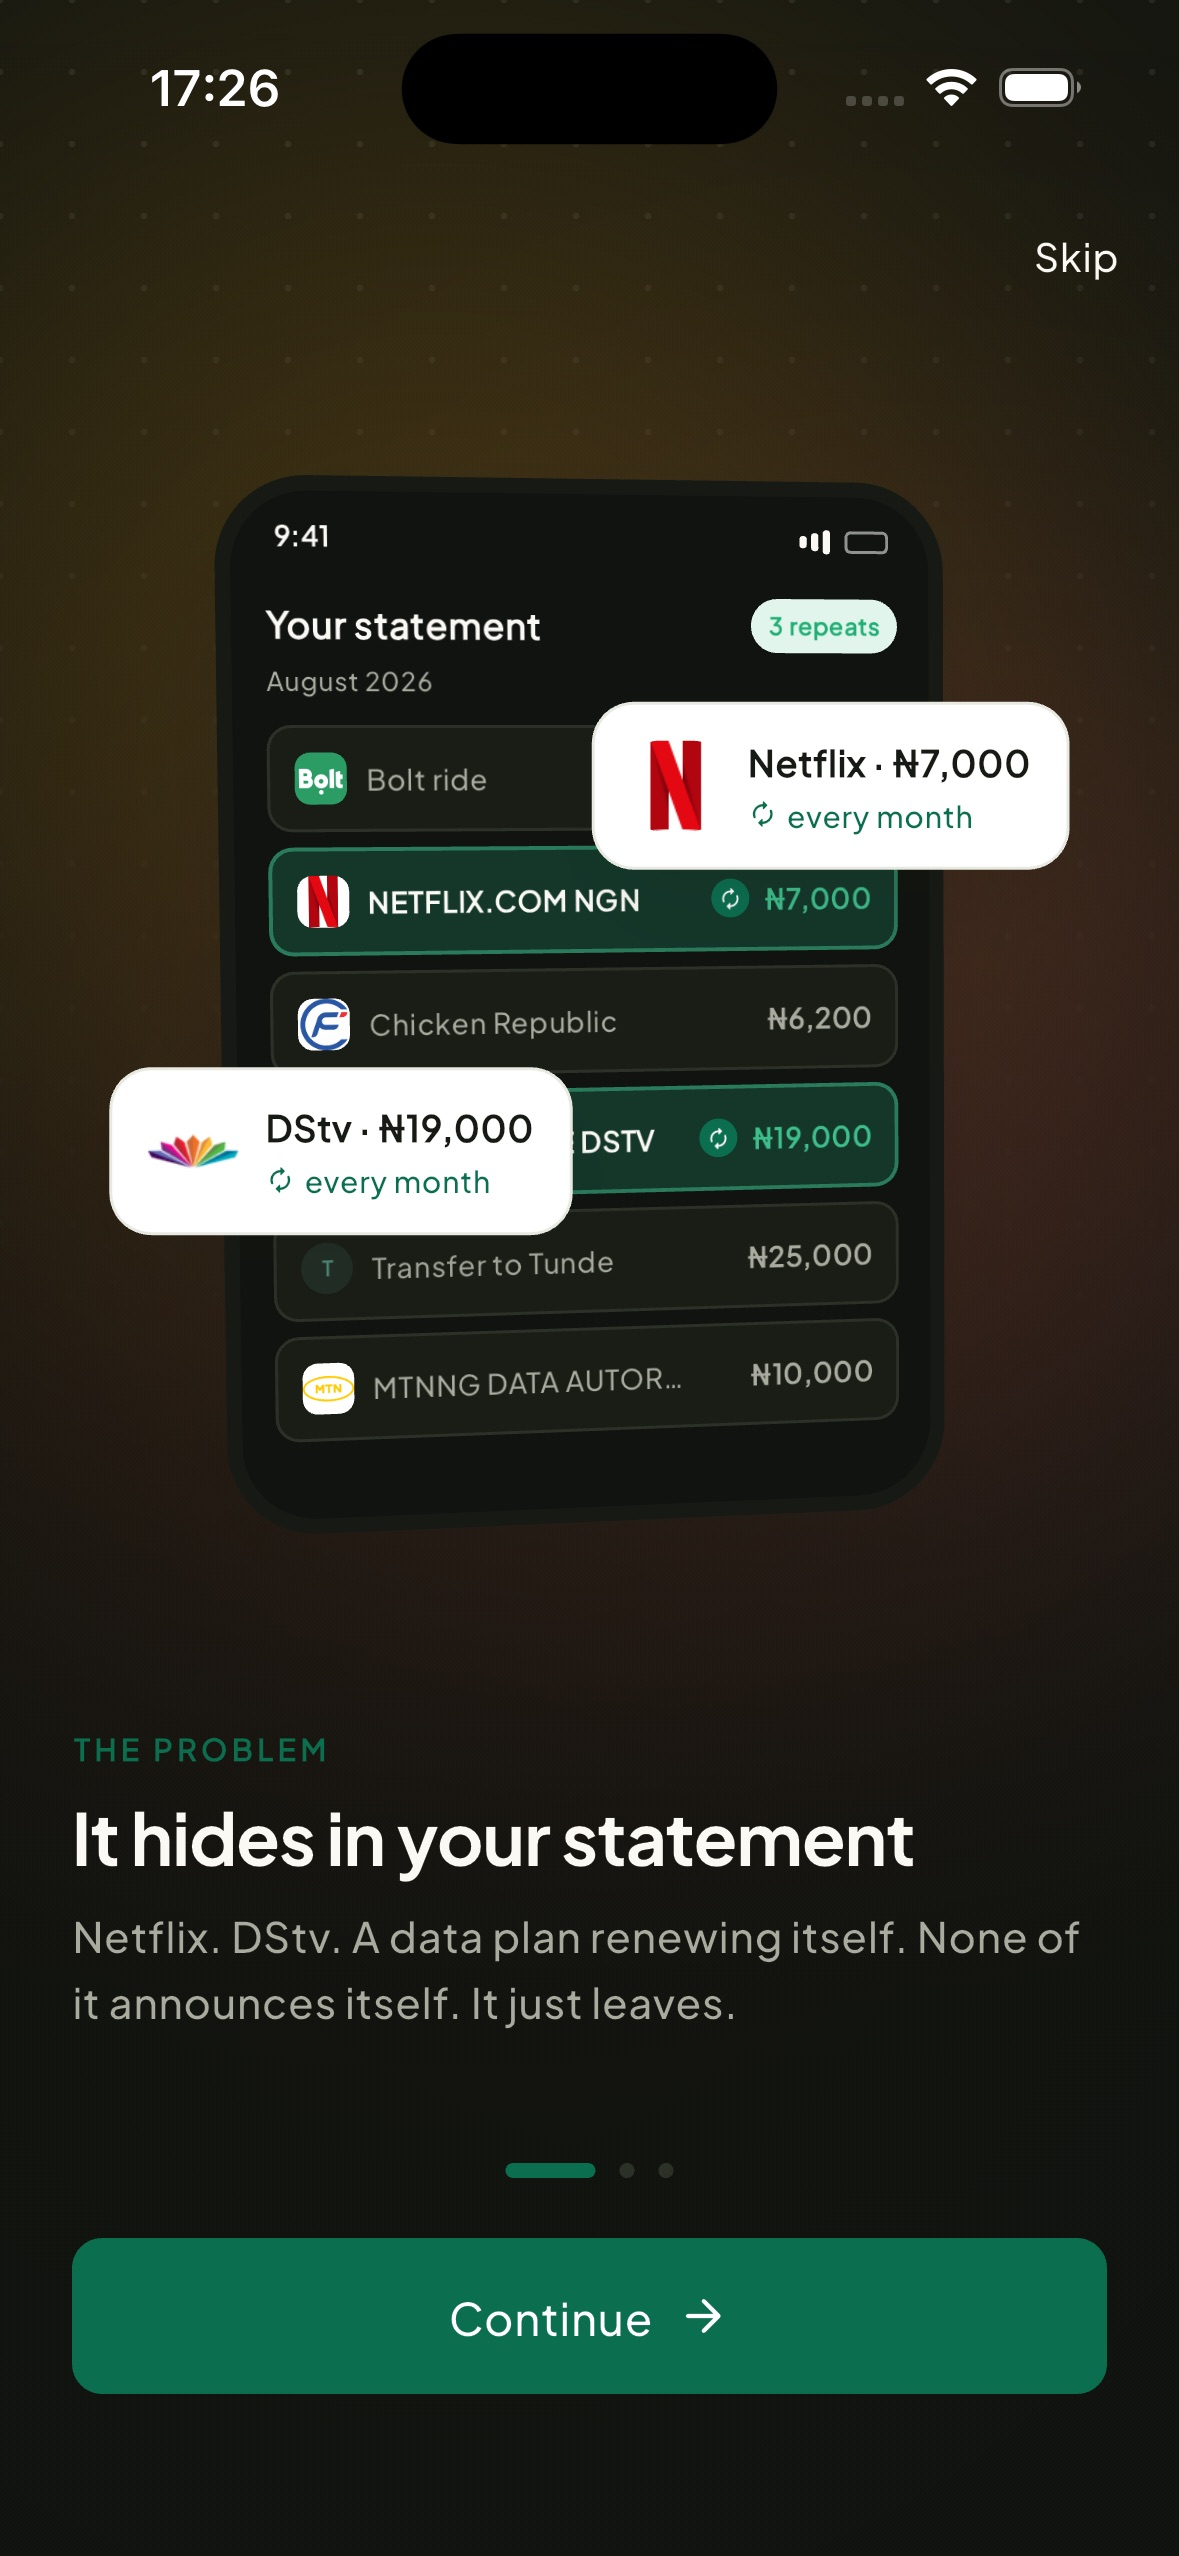
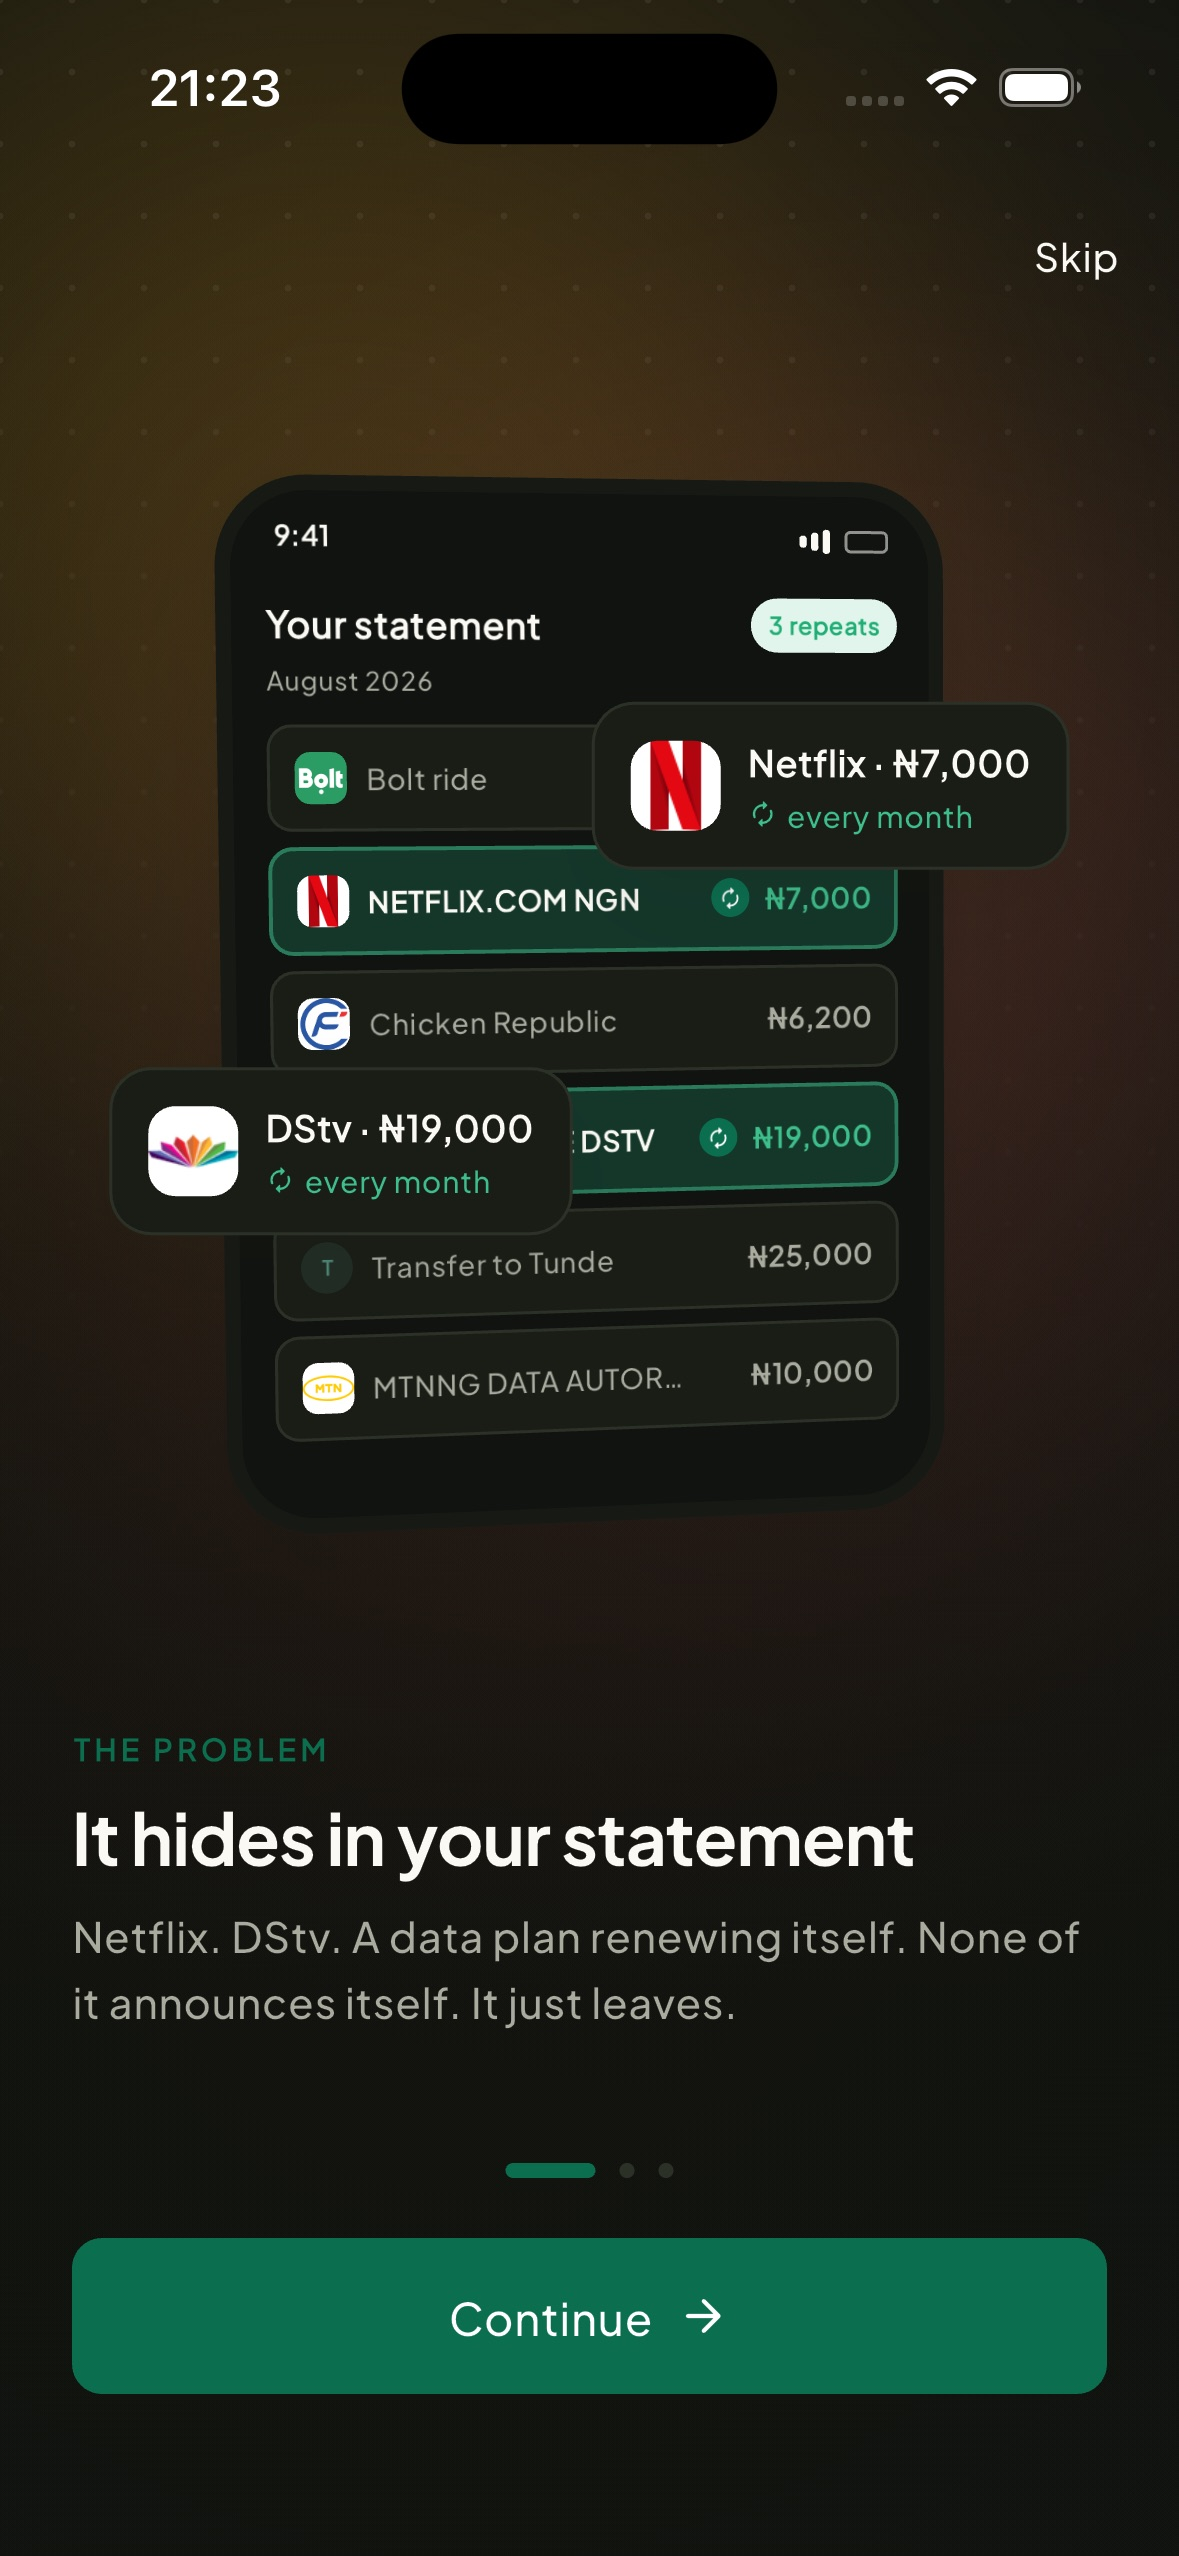
Strip the hero's ambient lighting, and darken the onboarding float cards
Partly reverses 1817172, which added the lighting this removes.

Four changes, three of them removals.

Removed the ambient treatment around the hero device: the upper-right green
wash, the blurred scaled copy of the screenshot sitting behind it, and the
highlight/shade overlay across its face. The shade half of that last one was a
26%-black gradient over the device's lower-left, which is what read as a
darkened patch. Together they were three separate attempts to make a flat
screenshot look lit, and stacking them made the hero muddier than the plain
image. The device now sits on the page unadorned. The --shot-src token went
with them; it existed only to feed the blurred copy.

Made the floating callout cards follow the theme. _FloatCard hardcoded
AppColors.white, so the Netflix, DStv and notification cards glowed white on
a dark onboarding page. Same drift as phone_frame's screen surface. Their copy
had to move with the fill: the labels were neutral900 and the "every month"
line was primary, both of which vanish on a dark card. Labels now use
ink(context), and the brand green uses primaryInk(context) rather than
primary, for the reason that token exists - primary is tuned for paper and
drops to about 2:1 on dark surfaces. Changing a fill without its contents is
exactly the bug this repeats.

Re-captured the three dark website assets from the rebuilt app so they carry
the fixed cards.

Moved the decode section's rule from above its column headers to below them,
[…]

diff --git a/website/index.html b/website/index.html
@@ -102,7 +102,6 @@
     /* The hero screenshot, as a CSS value, so the blurred echo layer behind
        the device can reuse the same asset without a second <img> in the
        markup. Swapped alongside the <picture> source in the dark block. */
-    --shot-src: url("assets/onboarding-1.jpg");
   }
 
   /* Dark mode. The app has shipped full light + dark since the pre-auth
@@ -136,7 +135,6 @@
       --shadow-soft: 0 1px 2px rgba(0, 0, 0, 0.40), 0 8px 24px -16px rgba(0, 0, 0, 0.70);
       --shadow-lift: 0 2px 4px rgba(0, 0, 0, 0.45), 0 24px 48px -28px rgba(0, 0, 0, 0.85);
 
-      --shot-src: url("assets/onboarding-1-dark.jpg");
     }
   }
 
@@ -588,43 +586,6 @@
     perspective: 1400px;
   }
 
-  /* One directional light, from upper-right. Two stops rather than a
-     symmetric radial, so it reads as illumination arriving from somewhere
-     rather than as a halo emitted by nothing. */
-  .hero-visual::before {
-    content: "";
-    position: absolute;
-    /* Top bleed kept to -6%, not -18%. Any further and the light reaches the
-       sticky nav, whose backdrop-filter clips to its own box and turns the
-       spill into a visible hairline across the header. A light source that
-       exposes another element's seam is not controlled imperfection. */
-    inset: -6% -14% -6% -4%;
-    z-index: 0;
-    pointer-events: none;
-    background:
-      radial-gradient(58% 50% at 84% 8%, color-mix(in srgb, var(--forest) 32%, transparent), transparent 72%),
-      radial-gradient(52% 40% at 96% 32%, color-mix(in srgb, #7FD9AE 15%, transparent), transparent 70%);
-    filter: blur(30px);
-  }
-
-  /* The far layer: the same screenshot, scaled up, pushed back, heavily
-     blurred and nearly invisible. It is what gives the device something to
-     be in front of. Offset down-left, i.e. away from the light. */
-  .hero-visual::after {
-    content: "";
-    position: absolute;
-    left: -9%; right: 5%; top: 7%; bottom: -7%;
-    z-index: 0;
-    pointer-events: none;
-    background-image: var(--shot-src);
-    background-size: cover;
-    background-position: 50% 22%;
-    border-radius: 34px;
-    filter: blur(26px) saturate(0.75);
-    opacity: 0.34;
-    transform: translateZ(-90px) rotate(-3deg);
-  }
-
   .shot {
     position: relative;
     z-index: 1;
@@ -674,20 +635,6 @@
     transform: rotate(-1.5deg) translateZ(0);
   }
 
-  /* Lighting across the device, matching the source above-right: a highlight
-     rolling off the top-right corner, a shade gathering bottom-left. This is
-     what makes it read as lit rather than pasted, and it is why the old flat
-     screenshot needed a glow to look like anything at all. */
-  .hero-visual .shot::after {
-    content: "";
-    position: absolute;
-    inset: 0;
-    pointer-events: none;
-    background:
-      linear-gradient(212deg, color-mix(in srgb, #FFFFFF 13%, transparent) 0%, transparent 40%),
-      linear-gradient(32deg, color-mix(in srgb, #000000 26%, transparent) 0%, transparent 46%);
-  }
-
   .shot img {
     width: 105.56%;
     /* `height: auto` is load-bearing, not boilerplate. The width/height
@@ -702,20 +649,6 @@
   }
 
   @media (prefers-color-scheme: dark) {
-    /* Dark mode gets a completely different crop, not a filtered version of
-       the light one.
-       Light mode can afford to include the slide's backdrop because that
-       backdrop and the paper are the same brightness, so a soft mask
-       dissolves one into the other and the callout cards survive. On ink
-       there is no version of that which works: the backdrop is near-white,
-       the page is near-black, and every gradual blend between them passes
-       through mid-grey. Three attempts proved that the hard way. The problem
-       was never the edge, it was that a large AREA of near-white was sitting
-       on a near-black page, and no edge treatment fixes an area.
-       So dark crops to the device itself and shows no backdrop at all.
-       Bounds measured off the pixels rather than estimated: the device sits
-       at x 146..608, y 330..948 in all three slides, found by scanning the
-       bezel columns for dark runs. This window sits 4px inside that. */
     /* Dark uses a genuinely dark-themed asset, captured from the app itself
        running on a simulator in dark mode, rather than a re-crop of the
        light one.
@@ -749,12 +682,6 @@
       margin-top: -36.36%;
     }
 
-    /* Brand green rather than neutral light, so the haze around the device
-       reads as Recur and not as a grey halo. */
-    .hero-visual::before, .shot-cascade::before {
-      background: radial-gradient(ellipse at 50% 45%, color-mix(in srgb, var(--forest) 55%, transparent), transparent 70%);
-      filter: blur(50px);
-    }
   }
 
   /* One of the two places the loud colour is allowed. */
@@ -881,7 +808,10 @@
      auto-rotating three-card stack that showed one row at a time on a five
      second timer, so comparing the three took fifteen seconds of waiting
      and the motion competed with the paragraph beside it for attention. */
-  .decode { border-top: 1px solid var(--line); }
+  /* No rule above the column headers. The line belongs under them, where it
+     separates the headings from the rows they describe, rather than above
+     them where it just fences the section off from the paragraph before it. */
+  .decode { border-top: none; }
   .decode-row {
     display: grid;
     grid-template-columns: 1fr auto 1fr;
@@ -894,7 +824,8 @@
     display: grid;
     grid-template-columns: 1fr auto 1fr;
     gap: 32px;
-    padding-bottom: 14px;
+    padding-bottom: 12px;
+    border-bottom: 1px solid var(--line);
     font-family: var(--mono);
     font-size: 11px;
     font-weight: 600;
@@ -1065,16 +996,6 @@
      scrapbook tilt, and nothing extends past its own box, so no breakpoint
      has to rescue it from the viewport edge. */
   .shot-cascade { position: relative; display: grid; gap: 8px; }
-  .shot-cascade::before {
-    content: "";
-    position: absolute;
-    inset: 4% -4%;
-    z-index: 0;
-    border-radius: 50%;
-    background: radial-gradient(ellipse at 50% 50%, color-mix(in srgb, var(--forest) 14%, transparent), transparent 70%);
-    filter: blur(40px);
-    pointer-events: none;
-  }
   .shot-cascade .shot:first-child { margin-right: 12%; }
   .shot-cascade .shot:last-child { margin-left: 12%; }
 

diff --git a/lib/screens/onboarding_screen.dart b/lib/screens/onboarding_screen.dart
@@ -625,9 +625,12 @@ class _FloatCard extends StatelessWidget {
     return Container(
       padding: padding ?? const EdgeInsets.symmetric(horizontal: 12, vertical: 10),
       decoration: BoxDecoration(
-        color: AppColors.white,
+        // Followed the theme as of the dark-mode pass. Hardcoded white left
+        // these cards glowing on a dark onboarding page, which is the same
+        // drift that made the whole preview render light inside a dark app.
+        color: AppColors.surface(context),
         borderRadius: BorderRadius.circular(14),
-        border: Border.all(color: AppColors.neutral200),
+        border: Border.all(color: AppColors.border(context)),
         boxShadow: [
           BoxShadow(
             color: AppColors.neutral900.withValues(alpha: 0.14),
@@ -671,28 +674,32 @@ class _DetectedChip extends StatelessWidget {
             children: [
               Text(
                 '${merchant.name} · $amount',
-                style: const TextStyle(
+                style: TextStyle(
                   fontSize: 12,
                   fontWeight: FontWeight.w800,
-                  color: AppColors.neutral900,
+                  color: AppColors.ink(context),
                 ),
               ),
               const SizedBox(height: 1),
-              const Row(
+              // primaryInk, not primary: the brand green is tuned for paper
+              // and drops to about 2:1 on a dark surface, so drawn as a glyph
+              // it has to step up. Changing the fill above without this is
+              // exactly what made the highlighted rows unreadable earlier.
+              Row(
                 mainAxisSize: MainAxisSize.min,
                 children: [
                   Icon(
                     Icons.autorenew_rounded,
                     size: 10,
-                    color: AppColors.primary,
+                    color: AppColors.primaryInk(context),
                   ),
-                  SizedBox(width: 3),
+                  const SizedBox(width: 3),
                   Text(
                     'every month',
                     style: TextStyle(
                       fontSize: 10,
                       fontWeight: FontWeight.w600,
-                      color: AppColors.primary,
+                      color: AppColors.primaryInk(context),
                     ),
                   ),
                 ],
@@ -787,12 +794,12 @@ class _AlertCard extends StatelessWidget {
                 children: [
                   Row(
                     children: [
-                      const Text(
+                      Text(
                         'Recur',
                         style: TextStyle(
                           fontSize: 10,
                           fontWeight: FontWeight.w800,
-                          color: AppColors.neutral900,
+                          color: AppColors.ink(context),
                         ),
                       ),
                       const SizedBox(width: 5),
@@ -801,29 +808,29 @@ class _AlertCard extends StatelessWidget {
                         style: TextStyle(
                           fontSize: 9,
                           fontWeight: FontWeight.w500,
-                          color: AppColors.neutral400,
+                          color: AppColors.muted(context),
                         ),
                       ),
                     ],
                   ),
                   const SizedBox(height: 3),
-                  const Text(
+                  Text(
                     'DStv takes ₦19,000 in 2 days',
                     style: TextStyle(
                       fontSize: 12.5,
                       fontWeight: FontWeight.w800,
                       height: 1.25,
-                      color: AppColors.neutral900,
+                      color: AppColors.ink(context),
                     ),
                   ),
                   const SizedBox(height: 2),
-                  const Text(
+                  Text(
                     'Still watching? Tap for how to cancel.',
                     style: TextStyle(
                       fontSize: 10.5,
                       fontWeight: FontWeight.w500,
                       height: 1.3,
-                      color: AppColors.neutral500,
+                      color: AppColors.muted(context),
                     ),
                   ),
                 ],
